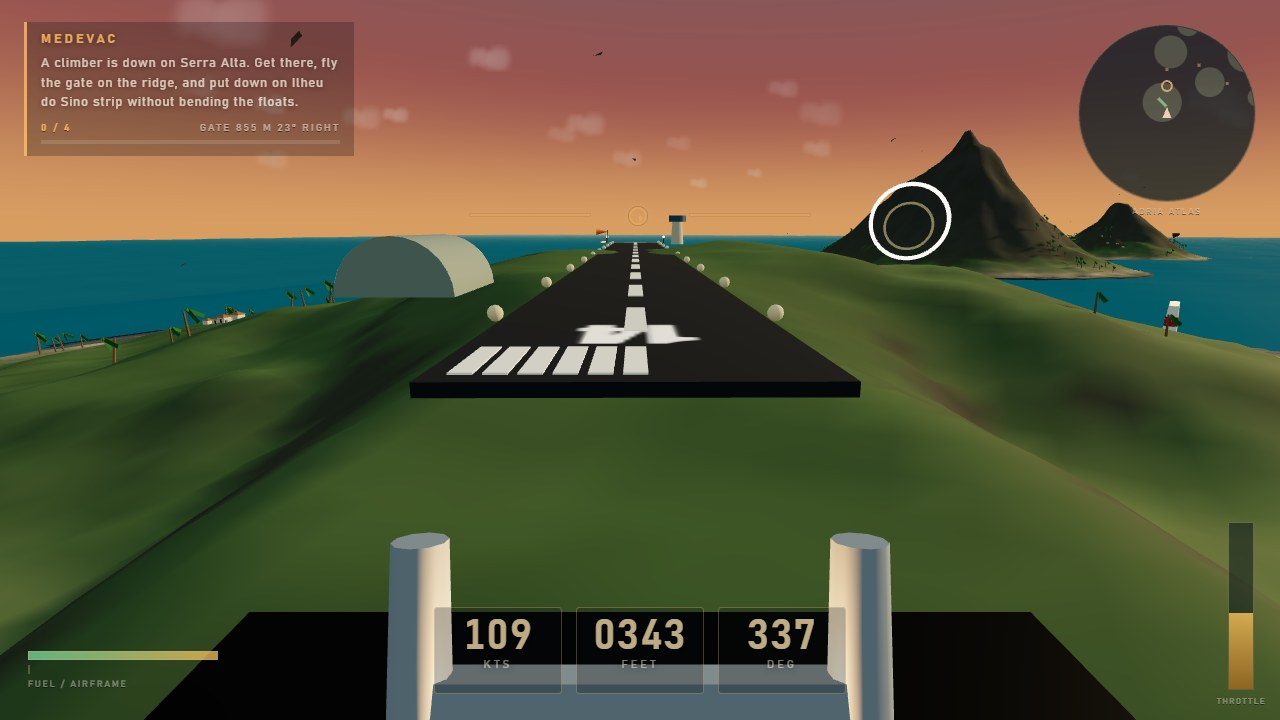
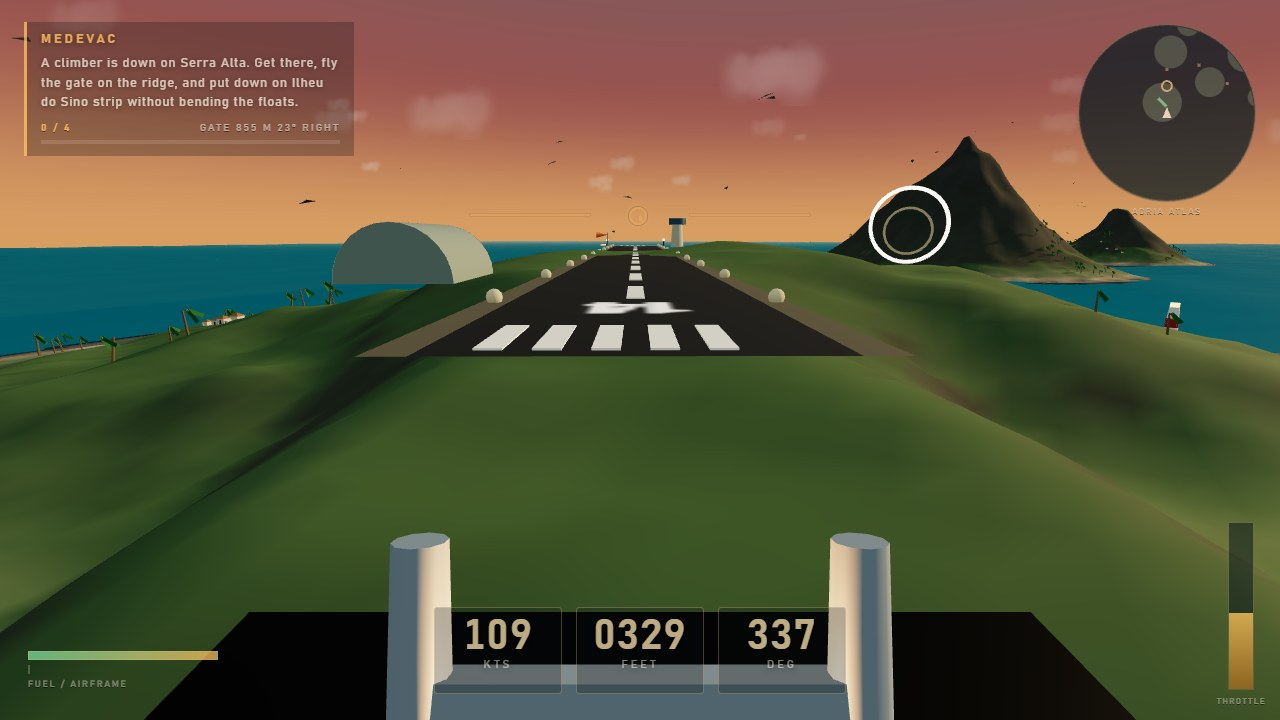
Runway is a flush surface with gravel shoulders; proper threshold keys and designator spacing

diff --git a/game/src/terrain/buildIslands.js b/game/src/terrain/buildIslands.js
@@ -113,19 +113,30 @@ function buildAirstrip(strip) {
   group.position.set(strip.x, padHeight, strip.z);
   group.rotation.y = strip.heading;
 
+  // A flat sheet on the levelled pad rather than a box: no faces to read as a slab from a
+  // low final, and the graded ground does the work at the edges.
   const asphalt = new THREE.Mesh(
-    new THREE.BoxGeometry(strip.width, 1.6, strip.length),
+    new THREE.PlaneGeometry(strip.width, strip.length),
     new THREE.MeshStandardMaterial({ color: '#2c3033', roughness: 0.95 }),
   );
-  asphalt.position.y = 0;
+  asphalt.rotation.x = -Math.PI / 2;
+  asphalt.position.y = 0.04;
+  // Gravel shoulders, so the asphalt edge is broken by a strip of grade rather than a hard line.
+  const shoulder = new THREE.MeshStandardMaterial({ color: '#6d6552', roughness: 1 });
+  for (const side of [-1, 1]) {
+    const grade = new THREE.Mesh(new THREE.PlaneGeometry(5, strip.length), shoulder);
+    grade.rotation.x = -Math.PI / 2;
+    grade.position.set(side * (strip.width / 2 + 2.5), 0.03, 0);
+    group.add(grade);
+  }
   asphalt.receiveShadow = true;
   group.add(asphalt);
 
   const dash = new THREE.MeshStandardMaterial({ color: '#f2ecd8', roughness: 0.75, emissive: '#5a5238', emissiveIntensity: 0.4 });
   const edge = new THREE.MeshStandardMaterial({ color: '#cfc39f', emissive: '#6a5c33', emissiveIntensity: 0.5 });
-  for (let i = -strip.length / 2 + 26; i < strip.length / 2 - 20; i += 46) {
+  for (let i = -strip.length / 2 + 48; i < strip.length / 2 - 20; i += 46) {
     const mark = new THREE.Mesh(new THREE.BoxGeometry(3.4, 0.22, 26), dash);
-    mark.position.set(0, 0.9, i);
+    mark.position.set(0, 0.16, i);
     group.add(mark);
   }
   for (const side of [-1, 1]) {
@@ -139,9 +150,9 @@ function buildAirstrip(strip) {
   // Threshold piano keys and the designator at each end, so the strip reads as a runway from the air.
   const paint = new THREE.MeshStandardMaterial({ color: '#f7f1dc', emissive: '#6b6250', emissiveIntensity: 0.5, roughness: 0.8 });
   for (const end of [-1, 1]) {
-    for (let i = 0; i < 6; i++) {
-      const key = new THREE.Mesh(new THREE.BoxGeometry(2.6, 0.24, 14), paint);
-      key.position.set(-strip.width / 2 + 4 + i * 3.6, 0.9, end * (strip.length / 2 - 10));
+    for (let i = 0; i < 5; i++) {
+      const key = new THREE.Mesh(new THREE.BoxGeometry(3, 0.24, 16), paint);
+      key.position.set(-strip.width / 2 + 7 + i * 6, 0.16, end * (strip.length / 2 - 11));
       group.add(key);
     }
     const canvas = document.createElement('canvas');
@@ -161,7 +172,7 @@ function buildAirstrip(strip) {
     );
     number.rotation.x = -Math.PI / 2;
     number.rotation.z = end > 0 ? Math.PI : 0;
-    number.position.set(0, 0.96, end * (strip.length / 2 - 26));
+    number.position.set(0, 0.18, end * (strip.length / 2 - 38));
     group.add(number);
   }
 

diff --git a/game/src/shots.js b/game/src/shots.js
@@ -57,7 +57,7 @@ export const SHOTS = {
     const endA = new THREE.Vector3(strip.x + Math.sin(heading) * (strip.length / 2 + 60), 0, strip.z + Math.cos(heading) * (strip.length / 2 + 60));
     const endB = new THREE.Vector3(strip.x - Math.sin(heading) * (strip.length / 2 + 60), 0, strip.z - Math.cos(heading) * (strip.length / 2 + 60));
     const from = groundAt(endA.x, endA.z) < groundAt(endB.x, endB.z) ? endA : endB;
-    from.y = pad + 15;
+    from.y = pad + 11;
     const to = new THREE.Vector3(strip.x, pad + 3, strip.z).lerp(from, 0.34);
     const pose = aim(from, to, { roll: 0.04, pitch: -0.15 });
     return { ...pose, speed: 56, throttle: 0.46, camera: 'cockpit', kind: 'medevac' };
